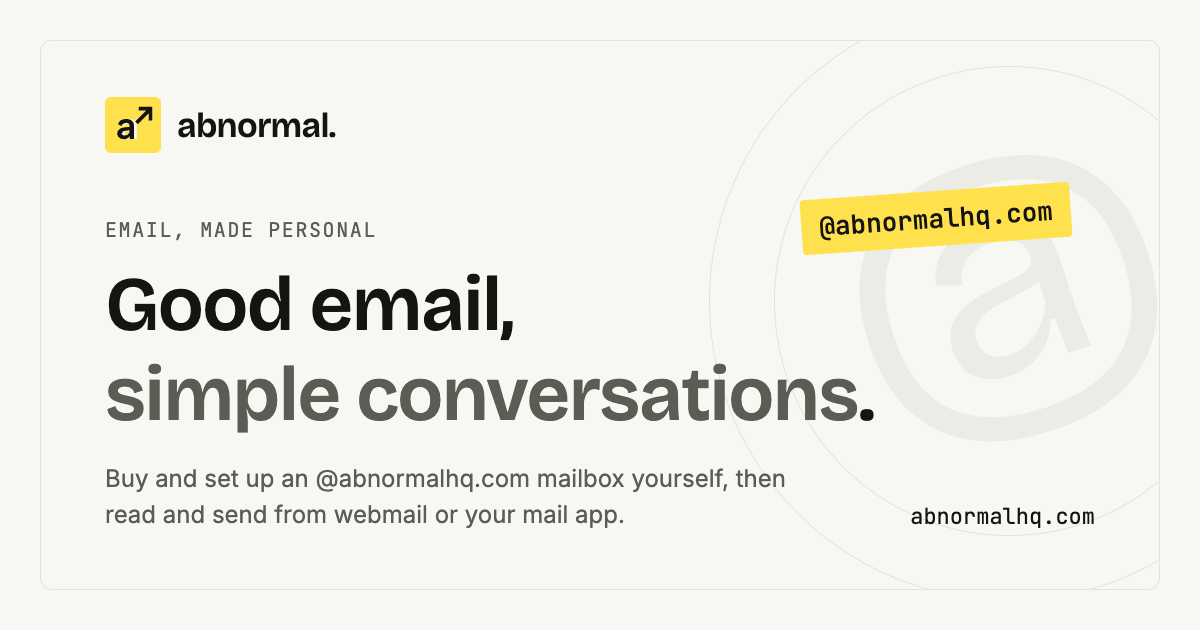
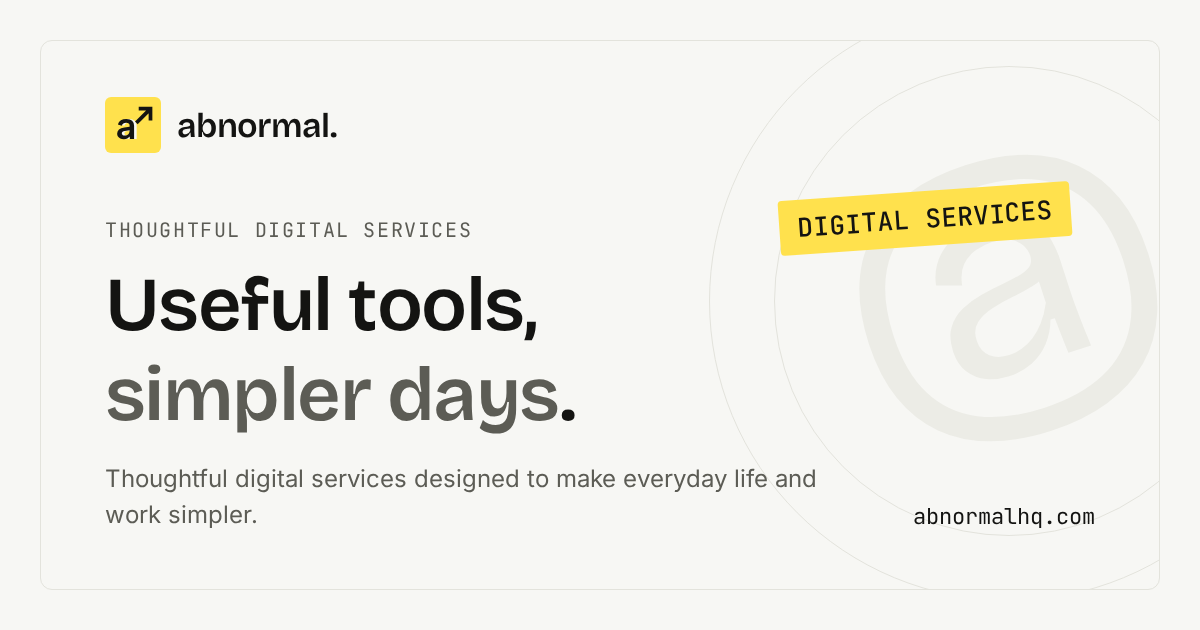
fix(home): broaden brand positioning

diff --git a/src/i18n/zh.ts b/src/i18n/zh.ts
@@ -6,12 +6,12 @@ export const zh: Copy = {
   dot: "。",
   space: "",
   meta: {
-    title: "Abnormal — 邮箱服务",
+    title: "Abnormal — 实用的数字服务",
     description:
-      "Abnormal 邮箱服务：在线选购 @abnormalhq.com 邮箱，用兑换码自助开通，网页邮箱与邮件客户端都能收发；团队可以按邮箱数量购买，包含自有域名的套餐可以自助接入自己的域名，配置协助可咨询。",
-    socialTitle: "Abnormal — 好用的邮箱，沟通更简单。",
-    socialDescription: "在线选购、自助开通 @abnormalhq.com 邮箱，开通后即可在网页或邮件客户端收发。",
-    socialImageAlt: "Abnormal 邮箱服务：好用的邮箱，沟通更简单。@abnormalhq.com 邮箱，在线选购、自助开通。",
+      "Abnormal 致力于打造实用、易用的数字服务，让日常与工作更简单。了解我们提供的服务，找到适合自己的选择。",
+    socialTitle: "Abnormal — 用心打造实用的数字服务。",
+    socialDescription: "为真实需求而设计，让日常与工作更简单的数字服务。",
+    socialImageAlt: "Abnormal：用心打造实用的数字服务，让日常与工作更简单。",
   },
   skipLink: "跳到主要内容",
   brandLabel: "Abnormal 首页",
@@ -41,19 +41,19 @@ export const zh: Copy = {
     options: { system: "跟随系统", light: "浅色模式", dark: "深色模式" },
   },
   hero: {
-    eyebrow: "Email, made personal",
-    titleLines: ["好用的邮箱，", "沟通更", "简单"],
+    eyebrow: "Thoughtful digital services",
+    titleLines: ["好用的服务，", "让日常", "更简单"],
     description: [
-      "注册账户，在线选购 @abnormalhq.com 邮箱，在账户里直接开通和管理。",
-      "网页邮箱和常用邮件客户端都能收发，连接日常与工作。",
+      "Abnormal 致力于打造实用、易用的数字服务，让日常与工作更简单。",
+      "了解我们提供的服务，找到适合你的那一项。",
     ],
-    buy: "购买邮箱",
-    register: "注册账户",
+    explore: "了解服务",
+    inquire: "联系咨询",
     loginPrompt: "已有账户？",
     loginLink: "登录管理邮箱",
     webmailLink: "登录网页邮箱",
     promises: ["订单与邮箱一个账户管理", "付款后在账户里直接开通", "用户名自己取"],
-    visualLabel: "邮箱服务概念示意：清晰的收件箱和专属域名地址，连接日常与工作。",
+    visualLabel: "Abnormal 服务示意：设计简洁、易于使用，让日常沟通更轻松。",
     mock: {
       overline: "A LITTLE MORE CONNECTED",
       heading: "每一封，都有归处",
@@ -81,9 +81,9 @@ export const zh: Copy = {
     },
   },
   valueStrip: {
-    lead: "少一点配置的麻烦。",
-    strong: "多一点沟通的从容。",
-    labels: ["注册账户", "在线选购", "自助开通", "网页收发"],
+    lead: "用心打造实用服务。",
+    strong: "让好用融入日常。",
+    labels: ["关注真实需求", "设计简洁易用", "持续打磨细节", "服务日常与工作"],
   },
   video: {
     eyebrow: "See it in action",

diff --git a/src/i18n/en.ts b/src/i18n/en.ts
@@ -6,14 +6,12 @@ export const en: Copy = {
   dot: ".",
   space: " ",
   meta: {
-    title: "Abnormal — Email service",
+    title: "Abnormal — Thoughtful digital services",
     description:
-      "Abnormal email service: buy an @abnormalhq.com mailbox online, set it up yourself with a redeem code, and read and send from webmail or any mail app. Plans for a team are sold per mailbox, plans that include it let you connect your own domain yourself, and setup help is available on request.",
-    socialTitle: "Abnormal — Good email, simple conversations.",
-    socialDescription:
-      "Buy and set up an @abnormalhq.com mailbox yourself, then read and send from webmail or your mail app.",
-    socialImageAlt:
-      "Abnormal email service: good email, simple conversations. Buy and set up an @abnormalhq.com mailbox online.",
+      "Abnormal creates thoughtful digital services that make everyday life and work simpler. Explore our services and find the one that fits your needs.",
+    socialTitle: "Abnormal — Useful services, simpler days.",
+    socialDescription: "Thoughtful digital services designed to make everyday life and work simpler.",
+    socialImageAlt: "Abnormal: thoughtful digital services for everyday life and work.",
   },
   skipLink: "Skip to main content",
   brandLabel: "Abnormal home",
@@ -43,19 +41,19 @@ export const en: Copy = {
     options: { system: "System", light: "Light", dark: "Dark" },
   },
   hero: {
-    eyebrow: "Email, made personal",
-    titleLines: ["Good email,", "simple ", "conversations"],
+    eyebrow: "Thoughtful digital services",
+    titleLines: ["Useful tools,", "simpler ", "days"],
     description: [
-      "Create an account, buy @abnormalhq.com mailboxes online, and set them up and manage them from your account.",
-      "Read and send from webmail or the mail app you already use.",
+      "Abnormal creates thoughtful digital services for everyday life and work.",
+      "Explore what we offer and find the service that fits your needs.",
     ],
-    buy: "Buy a mailbox",
-    register: "Create an account",
+    explore: "Explore services",
+    inquire: "Talk to us",
     loginPrompt: "Have an account?",
     loginLink: "Manage your mailboxes",
     webmailLink: "Log in to webmail",
     promises: ["Orders and mailboxes in one account", "Set up in your account once paid", "Pick your own username"],
-    visualLabel: "Concept illustration of the email service: a tidy inbox and an address on your own domain.",
+    visualLabel: "A sample of an Abnormal service, designed to make everyday communication simpler.",
     mock: {
       overline: "A LITTLE MORE CONNECTED",
       heading: "Every email has a home",
@@ -83,9 +81,9 @@ export const en: Copy = {
     },
   },
   valueStrip: {
-    lead: "Less setup hassle.",
-    strong: "More time to talk.",
-    labels: ["Your account", "Buy online", "Self-service setup", "Webmail"],
+    lead: "Thoughtfully built.",
+    strong: "Useful every day.",
+    labels: ["For everyday life", "For work and beyond", "Simple to get started", "Here when you need us"],
   },
   video: {
     eyebrow: "See it in action",

diff --git a/src/components/Hero.tsx b/src/components/Hero.tsx
@@ -8,6 +8,7 @@ import { useCopy } from "@/i18n";
 import { cn } from "@/lib/utils";
 import { AddressCheck } from "./AddressCheck";
 import { Icon } from "./Icon";
+import { InquiryButton } from "./InquiryDialog";
 import { ServiceStatus } from "./ServiceStatus";
 
 const avatars = [
@@ -61,17 +62,17 @@ export function Hero({ lang }: { lang: Lang }) {
             <p className="max-w-[500px] animate-rise text-md/prose text-muted-foreground max-hero:text-base/prose max-md:mx-auto [animation-delay:140ms]">
               {h.description.join(" ")}
             </p>
-            <div className="mt-7 flex animate-rise flex-wrap items-center gap-3 max-md:justify-center max-phone:[&>a]:w-full [animation-delay:210ms]">
+            <div className="mt-7 flex animate-rise flex-wrap items-center gap-3 max-md:justify-center max-phone:[&>a]:w-full max-phone:[&>button]:w-full [animation-delay:210ms]">
               <Button asChild size="lg">
-                <a href={links.shop}>
-                  {h.buy} <Icon name="arrow" className="size-4" />
+                <a href="#services">
+                  {h.explore} <Icon name="arrow" className="size-4" />
                 </a>
               </Button>
-              <Button asChild variant="outline" size="lg">
-                <a href={links.register}>
-                  {h.register} <Icon name="up-right" className="size-4" />
-                </a>
-              </Button>
+              <InquiryButton>
+                <Button variant="outline" size="lg">
+                  {h.inquire} <Icon name="up-right" className="size-4" />
+                </Button>
+              </InquiryButton>
             </div>
           </div>
 

diff --git a/tests/metadata.test.ts b/tests/metadata.test.ts
@@ -29,6 +29,24 @@ test("the homepage shares the social copy of its language", () => {
   assert.equal(metadata.alternates?.canonical, "/zh/");
 });
 
+test("the homepage introduction positions Abnormal beyond email services", () => {
+  for (const [lang, copy] of Object.entries({ en, zh }) as ["en" | "zh", typeof en][]) {
+    const introduction = [
+      copy.meta.title,
+      copy.meta.description,
+      copy.meta.socialTitle,
+      copy.meta.socialDescription,
+      copy.hero.eyebrow,
+      ...copy.hero.titleLines,
+      ...copy.hero.description,
+      copy.valueStrip.lead,
+      copy.valueStrip.strong,
+      ...copy.valueStrip.labels,
+    ].join(" ");
+    assert.doesNotMatch(introduction, lang === "en" ? /\b(?:email|mailbox|webmail)\b/i : /邮箱|邮件/);
+  }
+});
+
 test("every page shares a large card with its language's image, alt text and site name", () => {
   for (const lang of ["zh", "en"] as const) {
     const metadata = pageMetadata({ lang, path: "/terms/", title: "T", description: "D" });

diff --git a/scripts/og-images.ts b/scripts/og-images.ts
@@ -47,8 +47,8 @@ const mark = `<svg viewBox="0 0 48 48" width="56" height="56" style="border-radi
 function card(lang: Lang): string {
   const t = copies[lang];
   // titleLines is [line1, line2 lead, marked word]; join the last two without a separator (EN lead already ends in a space).
-  const [first, lead, mark] = t.hero.titleLines;
-  const second = `${lead}${mark}`;
+  const [first, lead, highlighted] = t.hero.titleLines;
+  const second = `${lead}${highlighted}`;
   return `<!doctype html>
 <html lang="${t.htmlLang}">
 <head>
@@ -86,7 +86,7 @@ function card(lang: Lang): string {
 <body>
   <div class="frame">
     <div class="rings" aria-hidden="true"><span>@</span></div>
-    <div class="tag">@abnormalhq.com</div>
+    <div class="tag">DIGITAL SERVICES</div>
     <div class="content">
       <div class="brand">${mark}<span>abnormal<span>.</span></span></div>
       <div class="eyebrow">${escape(t.hero.eyebrow)}</div>

diff --git a/src/i18n/types.ts b/src/i18n/types.ts
@@ -158,8 +158,8 @@ export interface Copy {
      */
     titleLines: readonly [string, string, string];
     description: readonly [string, string];
-    buy: string;
-    register: string;
+    explore: string;
+    inquire: string;
     loginPrompt: string;
     /** Sign in to the buyer account (manage mailboxes and orders). */
     loginLink: string;
